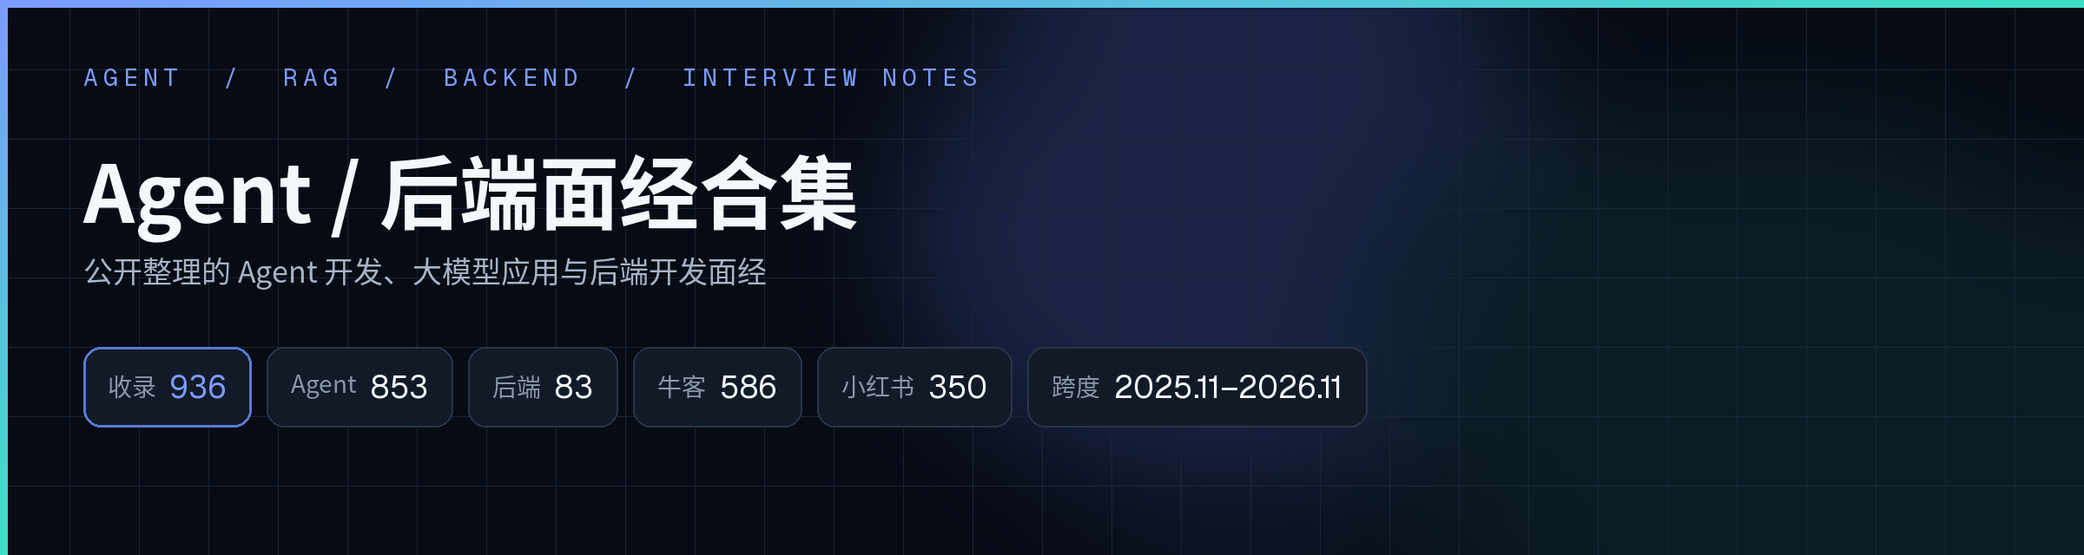
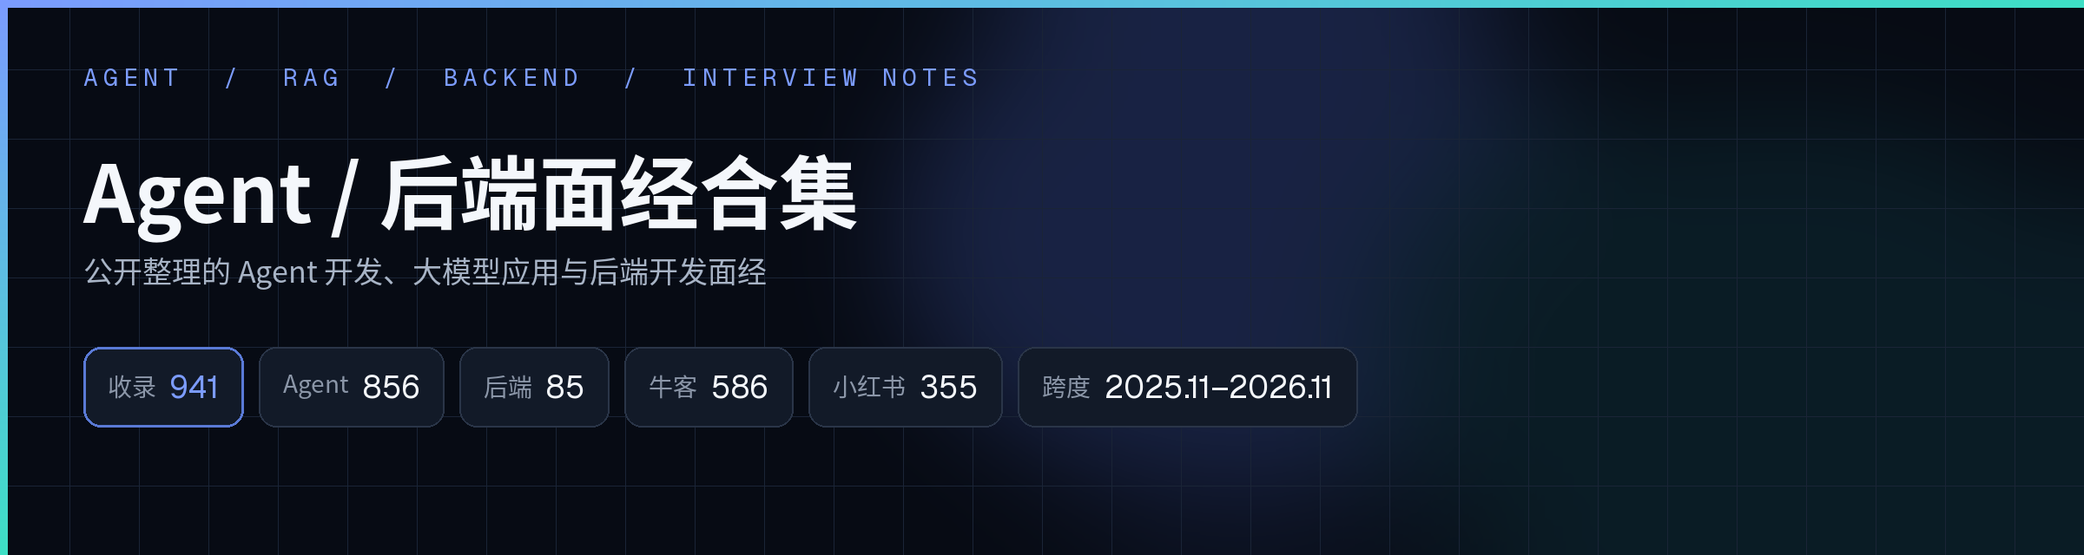
add 5 Xiaohongshu 面经 (明日香 字节/得物/招银网络/小红书实习/数坤科技一面)

Changed region(s): [[0.0938, 0.625, 0.6562, 0.7812], [0.2812, 0.75, 0.3125, 0.7812]]

diff --git a/README.md b/README.md
@@ -21,7 +21,7 @@
 
 | 收录 | Agent / 大模型应用 | 后端 | 来源 | 发帖跨度 |
 | --- | --- | --- | --- | --- |
-| 936 篇 | 853 | 83 | 牛客 586 · 小红书 350 | 2025.11–2026.11 |
+| 941 篇 | 856 | 85 | 牛客 586 · 小红书 355 | 2025.11–2026.11 |
 
 统计与 [`data/index.json`](data/index.json) 及 `agent/`、`backend/` 目录文件一致，随收录更新。本仓库整理已公开的帖子，不声称对每篇都做了独立真伪核验。
 
@@ -299,6 +299,7 @@
 | 2026-09-24 | 得物 中间件AI开发（Java方向） 一面 | [文件](agent/2026-09-24-得物-中间件AI开发-秋招-一面.md) | [原文](https://www.xiaohongshu.com/explore/6ab4d1a20000000018004738) |
 | 2026-09-24 | 小红书一面秋招面经 | [文件](agent/2026-09-24-小红书-秋招-一面.md) | [原文](https://www.xiaohongshu.com/explore/6ab4e579000000000a025f68) |
 | 2026-09-24 | 蚂蚁集团，智能体与大模型应用工程面经 | [文件](agent/2026-09-24-蚂蚁集团-智能体与大模型应用工程-一面二面.md) | [原文](https://www.xiaohongshu.com/explore/6ab4d0ff0000000018011bd7) |
+| 2026-09-24 | 字节-一面（回忆版）- 2026.9.24 | [文件](agent/2026-09-24-字节跳动-一面-Agent项目方向.md) | [原文](https://www.xiaohongshu.com/explore/6ab4d63b000000000100b544) |
 | 2026-09-23 | 百度Agent秋招算法岗一二面面经 | [文件](agent/2026-09-23-百度-Agent算法-秋招-一二面.md) | [原文](https://www.nowcoder.com/feed/main/detail/8a52d4f70093426fb8fc32e6825466e3) |
 | 2026-09-23 | 携程agent开发一面（凉经） | [文件](agent/2026-09-23-携程-Agent开发-一面.md) | [原文](https://www.nowcoder.com/feed/main/detail/0d590f82f4f243b180ee923860010b94) |
 | 2026-09-23 | 9.23 华橙agent评测 二面 | [文件](agent/2026-09-23-华橙-Agent评测-二面.md) | [原文](https://www.nowcoder.com/feed/main/detail/da2da7d6c85d4ab3b036f8c4b6108109) |
@@ -415,6 +416,8 @@
 | 2026-08-31 | 字节跳动 AI Agent研发一面凉经 | [文件](agent/2026-08-31-字节跳动-AIAgent开发-一面.md) | [原文](https://www.nowcoder.com/feed/main/detail/2ba7e96d48634777990b28c2cb322f40) |
 | 2026-08-31 | 8.31 字节TikTok Shop AI Agent一面 | [文件](agent/2026-08-31-字节跳动TikTokShop-AIAgent-一面.md) | [原文](https://www.xiaohongshu.com/explore/6a9641060000000028002c36) |
 | 2026-08-31 | 字节AI Agent研发一面凉经 | [文件](agent/2026-08-31-字节跳动-AIAgent研发-秋招-一面.md) | [原文](https://www.xiaohongshu.com/explore/6a9559b5000000001803ec72) |
+| 2026-08-31 | 【秋招の区】小红书(实习)-一面-8.26 | [文件](agent/2026-08-31-小红书-实习-一面-Agent项目方向.md) | [原文](https://www.xiaohongshu.com/explore/6a95243200000000240050db) |
+| 2026-08-31 | 【秋招の区】数坤科技-一面-2026.8.24 | [文件](agent/2026-08-31-数坤科技-一面-Agent项目方向.md) | [原文](https://www.xiaohongshu.com/explore/6a952295000000002903fba2) |
 | 2026-08-30 | 菜鸟集团 - 物流智能体 - Agent开发 - 一面 | [文件](agent/2026-08-30-菜鸟集团-智能体开发-一面.md) | [原文](https://www.nowcoder.com/feed/main/detail/5ce059d3af55456182ffe1fca14568c8) |
 | 2026-08-30 | 同花顺 agent开发 三面 | [文件](agent/2026-08-30-同花顺-Agent开发-三面.md) | [原文](https://www.nowcoder.com/feed/main/detail/88c55ee65af04ac98c218b9d17c47a71) |
 | 2026-08-30 | 去哪儿AI应用开发AI面-面经 | [文件](agent/2026-08-30-去哪儿-AI应用开发.md) | [原文](https://www.nowcoder.com/feed/main/detail/6f6ca6dd2c644f15a60a1b68f27489c8) |
@@ -960,6 +963,7 @@
 | 2026-09-25 | 阿里 Java后端实习一面二面 | [文件](backend/2026-09-25-阿里-Java后端实习-一面二面.md) | [原文](https://www.xiaohongshu.com/explore/6ab67798000000001801b3d2) |
 | 2026-09-22 | 未岚大陆一面二面面经 | [文件](backend/2026-09-22-未岚大陆-后端开发-一面二面.md) | [原文](https://www.xiaohongshu.com/explore/6ab27c9f000000003400e9b3) |
 | 2026-09-22 | 招银云创后端二面 | [文件](backend/2026-09-22-招银云创-后端-二面.md) | [原文](https://www.xiaohongshu.com/explore/6ab27cab0000000033032b10) |
+| 2026-09-22 | 得物-一面（回忆版）- 2026.9.22 | [文件](backend/2026-09-22-得物-一面.md) | [原文](https://www.xiaohongshu.com/explore/6ab225bd000000003703e98b) |
 | 2026-09-20 | 拼多多-服务端开发-秋招一面面经 | [文件](backend/2026-09-20-拼多多-服务端开发-秋招-一面.md) | [原文](https://www.xiaohongshu.com/explore/6aafc4080000000028003d25) |
 | 2026-09-19 | 招银云创后端一面 | [文件](backend/2026-09-19-招银云创-后端-一面.md) | [原文](https://www.xiaohongshu.com/explore/6aae48e4000000000b03623a) |
 | 2026-09-18 | 百度 一面 | [文件](backend/2026-09-18-百度-一面.md) | [原文](https://www.xiaohongshu.com/explore/6aac98c4000000002b025439) |
@@ -971,6 +975,7 @@
 | 2026-09-15 | 字节跳动 Java后端一面二面 | [文件](backend/2026-09-15-字节跳动-Java后端-一面二面.md) | [原文](https://www.xiaohongshu.com/explore/6aa90ff9000000002600b72b) |
 | 2026-09-14 | 京东jds后端一面 | [文件](backend/2026-09-14-京东-后端-JDS-一面.md) | [原文](https://www.xiaohongshu.com/explore/6aa7b02f000000002802da49) |
 | 2026-09-11 | CVTE 视频软件开发面经 | [文件](backend/2026-09-11-CVTE-软件开发-秋招.md) | [原文](https://www.xiaohongshu.com/explore/6aa3cf7a0000000011032ba5) |
+| 2026-09-11 | 招银网络-一面（回忆版）- 2026.9.11 | [文件](backend/2026-09-11-招银网络-一面.md) | [原文](https://www.xiaohongshu.com/explore/6aa37b0c000000002503776c) |
 | 2026-09-10 | 9.10北京爱学习java开发日常实习面经 | [文件](backend/2026-09-10-爱学习-Java开发-日常实习.md) | [原文](https://www.xiaohongshu.com/explore/6aa269d8000000002b013c01) |
 | 2026-09-09 | 打赢复活赛后端一面 | [文件](backend/2026-09-09-字节跳动-后端-日常实习-复活一面.md) | [原文](https://www.xiaohongshu.com/explore/6aa0f9e40000000027008ae4) |
 | 2026-09-09 | 后端二面 | [文件](backend/2026-09-09-字节跳动-后端开发-日常实习-二面.md) | [原文](https://www.xiaohongshu.com/explore/6aa0f75900000000250378b3) |

diff --git a/agent/2026-09-24-字节跳动-一面-Agent项目方向.md b/agent/2026-09-24-字节跳动-一面-Agent项目方向.md
@@ -1,0 +1,65 @@
+# 字节跳动一面（内容偏 Agent 项目方向）
+
+> 字节跳动（原帖标题写作「字节」，这里按通行公司名记录，不编具体部门） · 岗位未注明（内容偏 Agent 项目方向，并问到部分 Java/后端基础；不把内容方向写成已证实的正式职位） · 招聘类型未注明 · 一面 · 结果未注明 · 详情页可见日期为 09-24（未标年份，无「编辑于」标记）；按小红书月日格式和报告的 2026 年时间语境记为 2026-09-24，落在收集窗口 2026-08-10 至 2026-11-12。原帖标题写 2026.9.24，与发帖可见月日相同，未另写面试日，不把标题日期单独写成已证面试日 · 作者 明日香 · 来源：[小红书](https://www.xiaohongshu.com/explore/6ab4d63b000000000100b544)
+
+原帖标题为《字节-一面（回忆版）- 2026.9.24》。岗位名称、招聘类型和结果在已读材料里未见，不猜测。
+
+## 速览
+
+- **重点**：字节跳动一面。岗位名称未注明。下面只整理搜集报告里已经可见的题意摘要，不是逐字原文，也不补答案，更不声称已经覆盖原帖全部题目。报告写这场大约 1 小时。作者注明很多问题回忆不起来，这里不把没回忆起的内容补成题目。已核题意包括：自我介绍；项目里一条对话消息从输入到输出的全过程；中断之后怎样恢复上下文；为什么不直接用 API 接口，而用 skill 加 cli；一个工具调用返回几万行怎么处理；pass1 怎么验收，没通过的用例有没有分析是什么问题；压缩会丢失细节信息，有什么做法，报告写到渐进式压缩和记忆；为什么做多智能体而不是工作流；点赞为什么用 bitmap，这个问题出现了两次；outbox 和 canal 是干什么的；分布式锁怎么做；MySQL 为什么要用索引，索引的物理结构是什么，索引是不是越多越好；联合索引 (a,b) 和 (b,a) 在 where a=1 and b=2 时有没有区别；Lua 能不能用于 MySQL 和 Redis 同时保证原子性；消息队列已经完成任务但偏移量没增加，是什么问题、怎么解决；输入 url 到返回结果的全过程；有没有用过 k8s；在 aicoding 时代，程序员什么能力更重要；手撕 hot100 第 17 题，电话号码的字母组合。本帖只见一面这一场，不拆文件，也不另编未见轮次。
+- **难度**：字节跳动一面（内容偏 Agent 项目方向，岗位名称未注明）。发帖日期依据：详情页可见 09-24，未标年份，无「编辑于」标记，按小红书月日格式和报告 2026 语境记为 2026-09-24。
+- **题量**：仅按报告可见摘要整理，不把未见细节补成题目，也不声称全题已核。
+
+## 面经正文
+
+以下只整理搜集报告中已经看到的题意，不是逐字原文，也不补答案。只写这一场一面，不拆、不补其他轮次。作者注明很多问题回忆不起来，未回忆起的不补写。
+
+### 一面
+
+报告写这场大约 1 小时。已读材料没有另写实际面试日期。
+
+自我介绍。
+
+项目中，一条对话消息从输入到输出的全过程。
+
+中断之后，怎样恢复上下文。
+
+为什么不直接用 API 接口，而用 skill 加 cli。
+
+一个工具调用返回几万行，怎么处理。
+
+pass1 怎么验收；没通过的用例，有没有分析是什么问题。
+
+压缩会丢失细节信息，有什么做法。报告写到渐进式压缩，以及记忆。
+
+为什么做多智能体，而不是工作流。
+
+点赞为什么用 bitmap。报告写这个问题出现了两次。
+
+outbox 和 canal 是干什么的。
+
+分布式锁怎么做。
+
+MySQL 为什么要用索引；索引的物理结构是什么；索引是不是越多越好。
+
+联合索引 (a,b) 和 (b,a)，在 where a=1 and b=2 的条件下有没有区别。
+
+Lua 能不能用于 MySQL 和 Redis 同时保证原子性。
+
+消息队列已经完成任务，但偏移量没有增加，是什么问题，怎么解决。
+
+输入 url 到返回结果的全过程。
+
+有没有用过 k8s。
+
+在 aicoding 时代，程序员什么能力更重要。
+
+手撕：hot100 第 17 题，电话号码的字母组合。报告未展开题面或解法，这里不补。
+
+作者注明很多问题回忆不起来，未写出的题目不补。
+
+以上只保留报告已核题意，不补实现细节或作答。已读材料未见最终录用或淘汰结论，结果未注明。招聘类型和正式岗位名称也未注明。
+
+---
+
+收录于 2026-11-25 · 本文为依据搜集报告可见摘要的整理，非正式原文转载。版权归原作者所有，如有侵权请提 Issue 删除。

diff --git a/agent/2026-08-31-数坤科技-一面-Agent项目方向.md b/agent/2026-08-31-数坤科技-一面-Agent项目方向.md
@@ -1,0 +1,47 @@
+# 数坤科技一面（内容偏 Agent 项目方向）
+
+> 数坤科技 · 岗位未注明（可见题意含 Java/后端基础，也有 Agent 实习项目追问；按内容归入 agent/，不把内容方向写成已证实的正式职位） · 招聘类型未注明（标题有「秋招の区」，不单独据此写成已证秋招） · 一面 · 结果未注明 · 详情页可见日期为 08-31（未标年份，无「编辑于」标记）；按小红书月日格式和报告的 2026 年时间语境记为 2026-08-31，落在收集窗口 2026-08-10 至 2026-11-12。原帖标题写面试日为 2026.8.24 · 作者 明日香 · 来源：[小红书](https://www.xiaohongshu.com/explore/6a952295000000002903fba2)
+
+原帖标题为《【秋招の区】数坤科技-一面-2026.8.24》。岗位名称、招聘类型和结果在已读材料里未见，不猜测。标题里的「秋招の区」不单独写成已经证实的招聘类型。
+
+## 速览
+
+- **重点**：数坤科技一面。岗位名称未注明。下面只整理搜集报告里已经可见的题意摘要，不是逐字原文，也不补答案，更不声称已经覆盖原帖全部题目。已核题意包括：自我介绍；学过哪些编程语言；HashMap 原理，ConcurrentHashMap 为什么线程安全，新旧版本有什么区别；JVM 内存结构，以及 OOM 的情况；了解哪些数据库，Redis 为什么是单线程却能高并发；线程池怎么配置，核心线程会不会被回收；Spring Boot 是什么，注解，@Bean 的生命周期，AOP，IOC，循环依赖和三级缓存；个人项目里 Redis 点赞位图怎么设计并保持数据同步，Caffeine 作者写忘了，ES 原理和倒排索引作者也写忘了，这里不补；实习项目负责做什么，模型输出不稳定和执行不可信指的是什么，安全工具机制的实现例子，用户对话执行到一半中断怎么处理，中断传播是什么，记忆机制是什么、和上下文有什么区别；手撕 hot100 岛屿数量，还要判断最大岛屿面积，并要求在自己的编程环境里做完并执行；反问后续环节、面试的不足和改进点，以及公司的 aicoding 情况。本帖只见一面这一场，不拆文件，也不另编未见轮次。
+- **难度**：数坤科技一面（内容偏 Agent 项目方向，岗位名称未注明）。发帖日期依据：详情页可见 08-31，未标年份，无「编辑于」标记，按小红书月日格式和报告 2026 语境记为 2026-08-31。
+- **题量**：仅按报告可见摘要整理，不把未见细节补成题目，也不声称全题已核。
+
+## 面经正文
+
+以下只整理搜集报告中已经看到的题意，不是逐字原文，也不补答案。只写这一场一面，不拆、不补其他轮次。作者写忘了的部分，不补写成解答。
+
+### 一面
+
+原帖标题写这场面试日是 2026-08-24。
+
+自我介绍。
+
+学过哪些编程语言。
+
+八股：HashMap 原理；ConcurrentHashMap 为什么线程安全，新旧版本有什么区别。
+
+JVM 内存结构，以及 OOM 的情况。
+
+了解哪些数据库；Redis 为什么是单线程，却能高并发。
+
+线程池怎么配置；核心线程会不会被回收。
+
+Spring Boot 是什么；注解；@Bean 的生命周期；AOP；IOC；循环依赖和三级缓存。
+
+个人项目：Redis 点赞位图怎么设计，并保持数据同步。Caffeine，作者写忘了，这里不补。ES 原理和倒排索引，作者也写忘了，这里不补。
+
+实习项目：负责做什么；模型输出不稳定和执行不可信，指的是什么；安全工具机制的实现例子；用户对话执行到一半中断，怎么处理；中断传播是什么；记忆机制是什么，和上下文有什么区别。实习项目追问也不据此把招聘类型写成实习。
+
+手撕：hot100 岛屿数量，还要判断最大岛屿面积，并要求在自己的编程环境里做完并执行。报告未展开题面或解法，这里不补。
+
+反问：后续环节；面试的不足和改进点；公司的 aicoding 情况。
+
+以上只保留报告已核题意，不补实现细节或作答。已读材料未见最终录用或淘汰结论，结果未注明。招聘类型和正式岗位名称也未注明。
+
+---
+
+收录于 2026-11-25 · 本文为依据搜集报告可见摘要的整理，非正式原文转载。版权归原作者所有，如有侵权请提 Issue 删除。

diff --git a/agent/2026-08-31-小红书-实习-一面-Agent项目方向.md b/agent/2026-08-31-小红书-实习-一面-Agent项目方向.md
@@ -1,0 +1,49 @@
+# 小红书实习一面（内容偏 Agent 项目方向）
+
+> 小红书 · 岗位未注明（内容偏 Agent 实习项目；不把内容方向写成已证实的正式职位） · 实习（按原帖标题「小红书(实习)」记录；标题另有「秋招の区」，不据此改成秋招） · 一面 · 结果未注明 · 详情页可见日期为 08-31（未标年份，无「编辑于」标记）；按小红书月日格式和报告的 2026 年时间语境记为 2026-08-31，落在收集窗口 2026-08-10 至 2026-11-12。标题和报告写面试 8.26，未标年份，不另推年份 · 作者 明日香 · 来源：[小红书](https://www.xiaohongshu.com/explore/6a95243200000000240050db)
+
+原帖标题为《【秋招の区】小红书(实习)-一面-8.26》。岗位名称和结果在已读材料里未见，不猜测。招聘类型按标题里的「实习」记录，不把系列名「秋招の区」写成已证秋招。
+
+## 速览
+
+- **重点**：小红书实习一面。岗位名称未注明。下面只整理搜集报告里已经可见的题意摘要，不是逐字原文，也不补答案，更不声称已经覆盖原帖全部题目。已核题意包括：自我介绍；项目里类型化事件解耦客户端是什么；对话中断怎样传播，对话流失之后怎样恢复，作者说这部分说不上来，这里不补；工具 case 的回归率怎么测；skill 加 cli 是怎么做的，为什么不只用 cli，并用 cli 的 description 包装 skill 教程；上下文渐进式压缩怎么做，token 消耗量和摘要式压缩怎么测，摘要压缩次数少就一定更好吗；planmode 怎么做；Spring 循环依赖和三级缓存；@Transactional 事务捕获的异常是什么，作者不会，这里不补答案；假设服务器 OOM，怎么排查；手撕翻转链表；反问现有很多 agent 框架，怎么把 agent 投入业务并取得好效果。本帖只见一面这一场，不拆文件，也不另编未见轮次。
+- **难度**：小红书实习一面（内容偏 Agent 项目方向，岗位名称未注明）。发帖日期依据：详情页可见 08-31，未标年份，无「编辑于」标记，按小红书月日格式和报告 2026 语境记为 2026-08-31。
+- **题量**：仅按报告可见摘要整理，不把未见细节补成题目，也不声称全题已核。
+
+## 面经正文
+
+以下只整理搜集报告中已经看到的题意，不是逐字原文，也不补答案。只写这一场一面，不拆、不补其他轮次。作者说不上来或不会的地方，不补写成解答。
+
+### 一面
+
+标题和报告写这场面试是 8.26，未标年份，不另推年份。
+
+自我介绍。
+
+项目：类型化事件解耦客户端是什么。
+
+对话中断怎样传播，对话流失之后怎样恢复。作者说这部分说不上来，这里不补。
+
+工具 case 的回归率怎么测。
+
+skill 加 cli 是怎么做的；为什么不只用 cli，并用 cli 的 description 包装 skill 教程。
+
+上下文渐进式压缩怎么做；token 消耗量和摘要式压缩怎么测；摘要压缩次数少，就一定更好吗。
+
+planmode 怎么做。
+
+八股：Spring 循环依赖和三级缓存。
+
+@Transactional 事务捕获的异常是什么。作者不会，这里不补答案。
+
+假设服务器 OOM，怎么排查。报告写这是开放题，未展开作答，这里不补。
+
+手撕：翻转链表。报告未展开题面或解法，这里不补。
+
+反问：现在有很多 agent 框架，怎么把 agent 投入业务，并取得好效果。
+
+以上只保留报告已核题意，不补实现细节或作答。已读材料未见最终录用或淘汰结论，结果未注明。正式岗位名称未注明。
+
+---
+
+收录于 2026-11-25 · 本文为依据搜集报告可见摘要的整理，非正式原文转载。版权归原作者所有，如有侵权请提 Issue 删除。

diff --git a/backend/2026-09-22-得物-一面.md b/backend/2026-09-22-得物-一面.md
@@ -1,0 +1,43 @@
+# 得物一面（岗位未注明，内容偏后端）
+
+> 得物 · 岗位未注明（可见题意偏 Java 基础、集合和中间件，按内容归入 backend/；不把内容方向写成已证实的正式职位） · 招聘类型未注明 · 一面 · 结果未注明（作者感觉要寄，未出结果，不写成已确认淘汰） · 详情页可见日期为 09-22（未标年份，无「编辑于」标记）；按小红书月日格式和报告的 2026 年时间语境记为 2026-09-22，落在收集窗口 2026-08-10 至 2026-11-12。原帖标题写 2026.9.22，与发帖可见月日相同，未另写面试日，不把标题日期单独写成已证面试日 · 作者 明日香 · 来源：[小红书](https://www.xiaohongshu.com/explore/6ab225bd000000003703e98b)
+
+原帖标题为《得物-一面（回忆版）- 2026.9.22》。岗位名称和招聘类型在已读材料里未见，不猜测。
+
+## 速览
+
+- **重点**：得物一面。岗位名称未注明。下面只整理搜集报告里已经可见的题意摘要，不是逐字原文，也不补答案，更不声称已经覆盖原帖全部题目。报告写这场大约 30 分钟。已核题意包括：自我介绍；项目遇到的难点；HashMap、ConcurrentHashMap、CAS、volatile 和 synchronized；LinkedList 和 ArrayList；在 ArrayList 里怎样遍历找到对应的 string 元素，遍历过程中 remove 会不会出错；对中间件的理解；在 aicoding 时代，怎样兼顾自身代码能力和企业产出效率；合并 1000 个有序链表的思路。作者感觉要寄，但没有写出实际结果，结果仍记为未注明。本帖只见一面这一场，不拆文件，也不另编未见轮次。
+- **难度**：得物一面（内容偏后端，岗位名称未注明）。发帖日期依据：详情页可见 09-22，未标年份，无「编辑于」标记，按小红书月日格式和报告 2026 语境记为 2026-09-22。
+- **题量**：仅按报告可见摘要整理，不把未见细节补成题目，也不声称全题已核。
+
+## 面经正文
+
+以下只整理搜集报告中已经看到的题意，不是逐字原文，也不补答案。只写这一场一面，不拆、不补其他轮次。
+
+### 一面
+
+报告写这场大约 30 分钟。已读材料没有另写实际面试日期。
+
+自我介绍。
+
+项目遇到的难点。报告未展开更细追问，这里不补。
+
+HashMap、ConcurrentHashMap、CAS、volatile 和 synchronized。
+
+LinkedList 和 ArrayList。
+
+在 ArrayList 里怎样遍历，找到对应的 string 元素；遍历过程中 remove 会不会出错。
+
+对中间件的理解。报告未展开更细题面，这里不补。
+
+在 aicoding 时代，怎样兼顾自身代码能力和企业产出效率。
+
+合并 1000 个有序链表的思路。报告未展开更细题面或解法，这里不补。
+
+作者感觉要寄，但没有写出实际录用或淘汰结论，结果仍记为未注明。
+
+以上只保留报告已核题意，不补实现细节或作答。招聘类型和正式岗位名称未注明。
+
+---
+
+收录于 2026-11-25 · 本文为依据搜集报告可见摘要的整理，非正式原文转载。版权归原作者所有，如有侵权请提 Issue 删除。

diff --git a/backend/2026-09-11-招银网络-一面.md b/backend/2026-09-11-招银网络-一面.md
@@ -1,0 +1,51 @@
+# 招银网络一面（岗位未注明，内容偏后端）
+
+> 招银网络（按原帖标题记录，不改写成招银云创或其他名称） · 岗位未注明（可见题意偏秒杀、Redis、消息队列和 Java 并发，按内容归入 backend/；不把内容方向写成已证实的正式职位） · 招聘类型未注明 · 一面 · 结果未注明 · 详情页可见日期为 09-11（未标年份，无「编辑于」标记）；按小红书月日格式和报告的 2026 年时间语境记为 2026-09-11，落在收集窗口 2026-08-10 至 2026-11-12。原帖标题写 2026.9.11，与发帖可见月日相同，未另写面试日，不把标题日期单独写成已证面试日 · 作者 明日香 · 来源：[小红书](https://www.xiaohongshu.com/explore/6aa37b0c000000002503776c)
+
+原帖标题为《招银网络-一面（回忆版）- 2026.9.11》。岗位名称、招聘类型和结果在已读材料里未见，不猜测。
+
+## 速览
+
+- **重点**：招银网络一面。岗位名称未注明。下面只整理搜集报告里已经可见的题意摘要，不是逐字原文，也不补答案，更不声称已经覆盖原帖全部题目。报告写这场大约 35 分钟。已核题意包括：自我介绍；商城秒杀场景怎么设计；怎么防止超卖；Redis 宕机时怎么防止影响业务；消息队列的可靠性；消息队列积压怎么处理；ConcurrentHashMap；CAS；线程池有哪些创建方式；自定义线程池有哪些参数；线程池的拒绝策略；LRU 缓存怎么设计；手撕 hot100 第 3 题，无重复字符的最长子串。本帖只见一面这一场，不拆文件，也不另编未见轮次。
+- **难度**：招银网络一面（内容偏后端，岗位名称未注明）。发帖日期依据：详情页可见 09-11，未标年份，无「编辑于」标记，按小红书月日格式和报告 2026 语境记为 2026-09-11。
+- **题量**：仅按报告可见摘要整理，不把未见细节补成题目，也不声称全题已核。
+
+## 面经正文
+
+以下只整理搜集报告中已经看到的题意，不是逐字原文，也不补答案。只写这一场一面，不拆、不补其他轮次。
+
+### 一面
+
+报告写这场大约 35 分钟。已读材料没有另写实际面试日期。
+
+自我介绍。
+
+商城秒杀场景怎么设计。
+
+怎么防止超卖。
+
+Redis 宕机时，怎么防止影响业务。
+
+消息队列的可靠性。
+
+消息队列积压问题。
+
+ConcurrentHashMap。
+
+CAS。
+
+线程池有哪些创建方式。
+
+自定义线程池有哪些参数。
+
+线程池的拒绝策略。
+
+LRU 缓存怎么设计。
+
+手撕：hot100 第 3 题，无重复字符的最长子串。报告未展开题面或解法，这里不补。
+
+以上只保留报告已核题意，不补实现细节或作答。已读材料未见最终录用或淘汰结论，结果未注明。招聘类型和正式岗位名称也未注明。
+
+---
+
+收录于 2026-11-25 · 本文为依据搜集报告可见摘要的整理，非正式原文转载。版权归原作者所有，如有侵权请提 Issue 删除。
